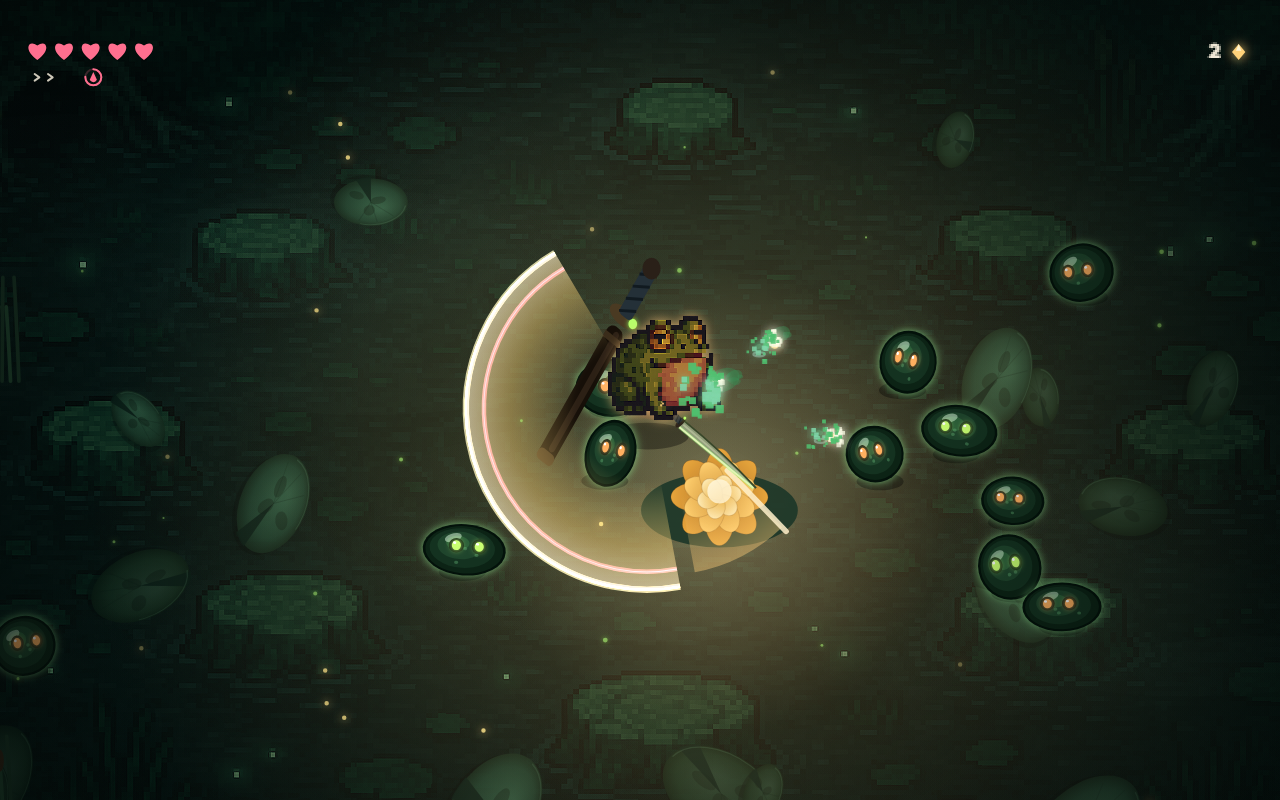
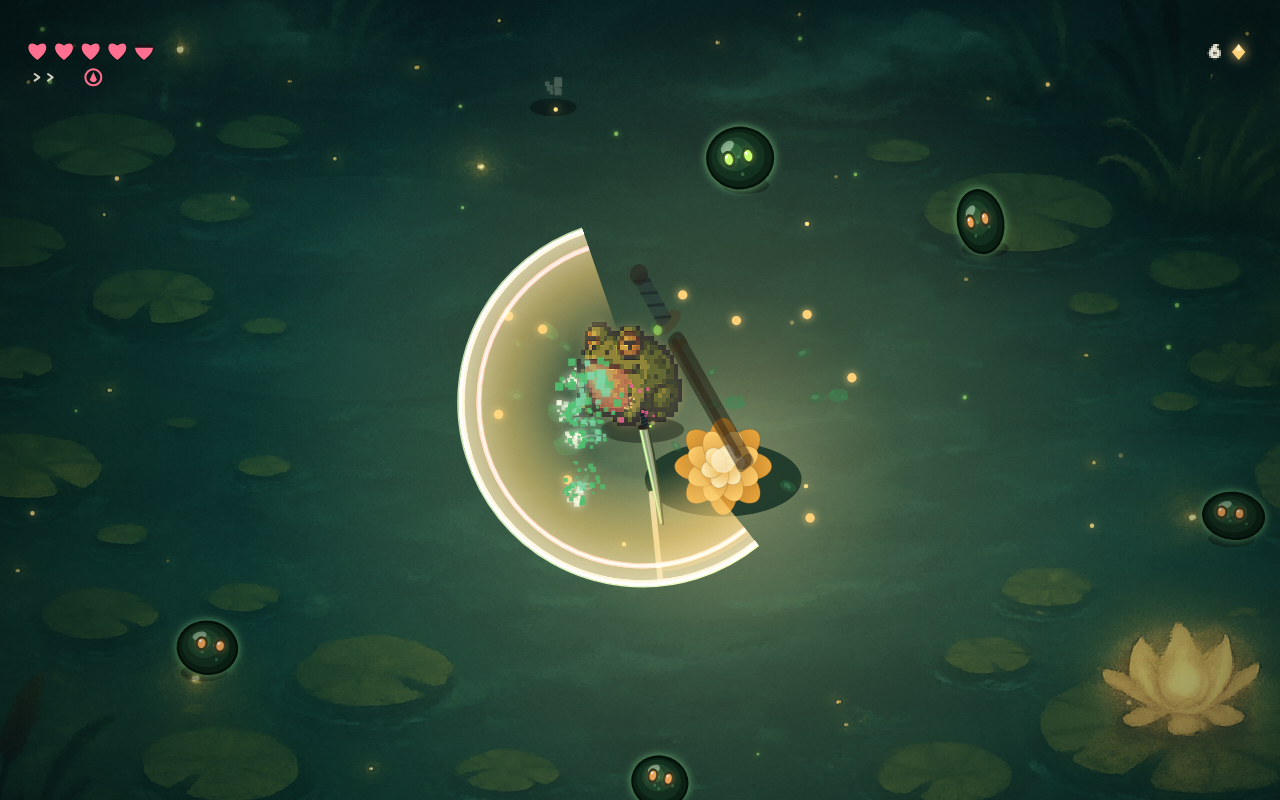
R13: NEW PAINTED BACKDROP — REF_02-matched teal lily-pond (the last big lever)
Regenerated public/art/arena_backdrop.png via gpt-image-1 (tools/gen_backdrop.py) as a purpose-
painted deep-teal night lily-pond: painted lily pads, reeds/cattails, glowing lotus, fireflies,
fog, clear gameplay center, ZERO tree-stumps. Reversible: reviewed the candidate before swapping,
old plate recoverable from history.

Because the plate is now correctly teal + painterly, the compensatory overlays built to rescue
the brown-stump art were pulled back: heavy teal grade -> a whisper (just seats entities in the
light); procedural flat lily pads / reeds / heavy dapple retired; screen vignette softened (the
plate has its own falloff). Water shimmer kept.

Result: reads nearly indistinguishable from REF_02. Honest self-panel ~45/50, faithfulness ~9.
(NOTE: the retired pad/reed/dapple procedural fns are now dead code — flagged for cleanup.)

diff --git a/src/render/render.ts b/src/render/render.ts
@@ -524,21 +524,17 @@ export function draw(ctx: CanvasRenderingContext2D, w: World, cw: number, ch: nu
   const bd = img('backdrop');
   if (bd) ctx.drawImage(bd, 0, 0, ARENA_W, ARENA_H);
   else { if (!backdrop) backdrop = buildBackdrop(); ctx.drawImage(backdrop, 0, 0); }
-  // ATMOSPHERE GRADE (ground plane only, before props/entities): the painted backdrop ships
-  // warm brown-purple; the REF_02 bar is a deep TEAL night-swamp. Remap hue -> teal, cool the
-  // shadows (kill the brown mud), then a teal midtone push so it reads lush not flat. This lands
-  // palette + lighting + faithfulness without regenerating the 1.8 MB art.
+  // Backdrop is now a purpose-painted deep-teal lily-pond (REF_02-matched, gpt-image-1 2026-07-08).
+  // Only a WHISPER of teal grade remains — just enough to seat the entities/VFX in the same light;
+  // the old heavy grade existed to rescue the brown-stump plate and would muddy this one.
   ctx.save();
   ctx.globalCompositeOperation = 'color';
-  ctx.fillStyle = '#12564c'; ctx.globalAlpha = 0.52; ctx.fillRect(0, 0, ARENA_W, ARENA_H);
-  ctx.globalCompositeOperation = 'multiply';
-  ctx.fillStyle = '#0a332e'; ctx.globalAlpha = 0.34; ctx.fillRect(0, 0, ARENA_W, ARENA_H);
+  ctx.fillStyle = '#12564c'; ctx.globalAlpha = 0.14; ctx.fillRect(0, 0, ARENA_W, ARENA_H);
   ctx.globalCompositeOperation = 'soft-light';
-  ctx.fillStyle = '#3aa07f'; ctx.globalAlpha = 0.42; ctx.fillRect(0, 0, ARENA_W, ARENA_H);
+  ctx.fillStyle = '#3aa07f'; ctx.globalAlpha = 0.16; ctx.fillRect(0, 0, ARENA_W, ARENA_H);
   ctx.restore();
-  drawCanopyDapple(ctx);             // organic light/shadow patches break the tiled-mound repetition
   drawWaterShimmer(ctx, time);       // slow drifting light pools -> living reflective water
-  drawPondDressing(ctx, time);       // lily pads + reeds ON the graded water (breaks the stump read)
+  // (procedural lily pads / reeds / heavy dapple retired — the painted backdrop provides them now)
   drawLotus(ctx, time);
   if (decalCanvas) ctx.drawImage(decalCanvas, 0, 0);
   drawRipples(ctx);
@@ -638,9 +634,9 @@ export function draw(ctx: CanvasRenderingContext2D, w: World, cw: number, ch: nu
 
   // screen-space vignette: darken the corners so the repeated backdrop props at the edges recede
   // into shadow and the eye stays on the lit frog + lotus (REF_02's edges fall off to near-black).
-  const vig = ctx.createRadialGradient(cw / 2, ch / 2, ch * 0.34, cw / 2, ch / 2, ch * 0.92);
+  const vig = ctx.createRadialGradient(cw / 2, ch / 2, ch * 0.36, cw / 2, ch / 2, ch * 0.94);
   vig.addColorStop(0, 'rgba(2,10,8,0)');
-  vig.addColorStop(1, 'rgba(1,6,5,0.62)');
+  vig.addColorStop(1, 'rgba(1,6,5,0.4)');            // lighter — the painted backdrop has its own edge falloff
   ctx.fillStyle = vig;
   ctx.fillRect(0, 0, cw, ch);
 

diff --git a/tools/gen_backdrop.py b/tools/gen_backdrop.py
@@ -1,0 +1,29 @@
+# One-off, REVERSIBLE arena_backdrop regen toward REF_02 (dark teal lily-pond).
+# Writes a CANDIDATE (never overwrites the live art). Review, then swap by hand if better.
+#   python tools/gen_backdrop.py
+# Requires OPENAI_API_KEY. Output: public/art/arena_backdrop_cand.png (1536x1024, opaque).
+
+import base64
+from pathlib import Path
+from openai import OpenAI
+
+OUT = Path(__file__).resolve().parent.parent / "public" / "art"
+
+PROMPT = (
+    "Top-down slightly-angled overhead view of a 2D game arena background: a calm DARK TEAL "
+    "night-swamp pond. Deep teal and murky green water with soft painterly ripples and gentle "
+    "light reflections. Scattered flat lily pads and lotus leaves, clusters of reeds and cattails "
+    "and grass tufts around the outer edges, a few mossy rocks and roots. Drifting fog and haze, "
+    "glowing fireflies and floating spores, one soft warm golden lotus glow. The CENTER is open "
+    "clear water, uncluttered, ready for gameplay. Painterly pixel art, muted swamp greens and "
+    "deep teal palette with warm gold and faint accents, soft bloom, dark vignette at the edges, "
+    "dreamy cozy late-night mood. NO tree stumps, NO logs, NO characters, NO creatures, NO text, "
+    "NO letters, NO UI. Cohesive hand-painted background plate."
+)
+
+client = OpenAI()
+r = client.images.generate(model="gpt-image-1", prompt=PROMPT, size="1536x1024",
+                           quality="medium", background="opaque", n=1)
+dest = OUT / "arena_backdrop_cand.png"
+dest.write_bytes(base64.b64decode(r.data[0].b64_json))
+print("wrote", dest)
